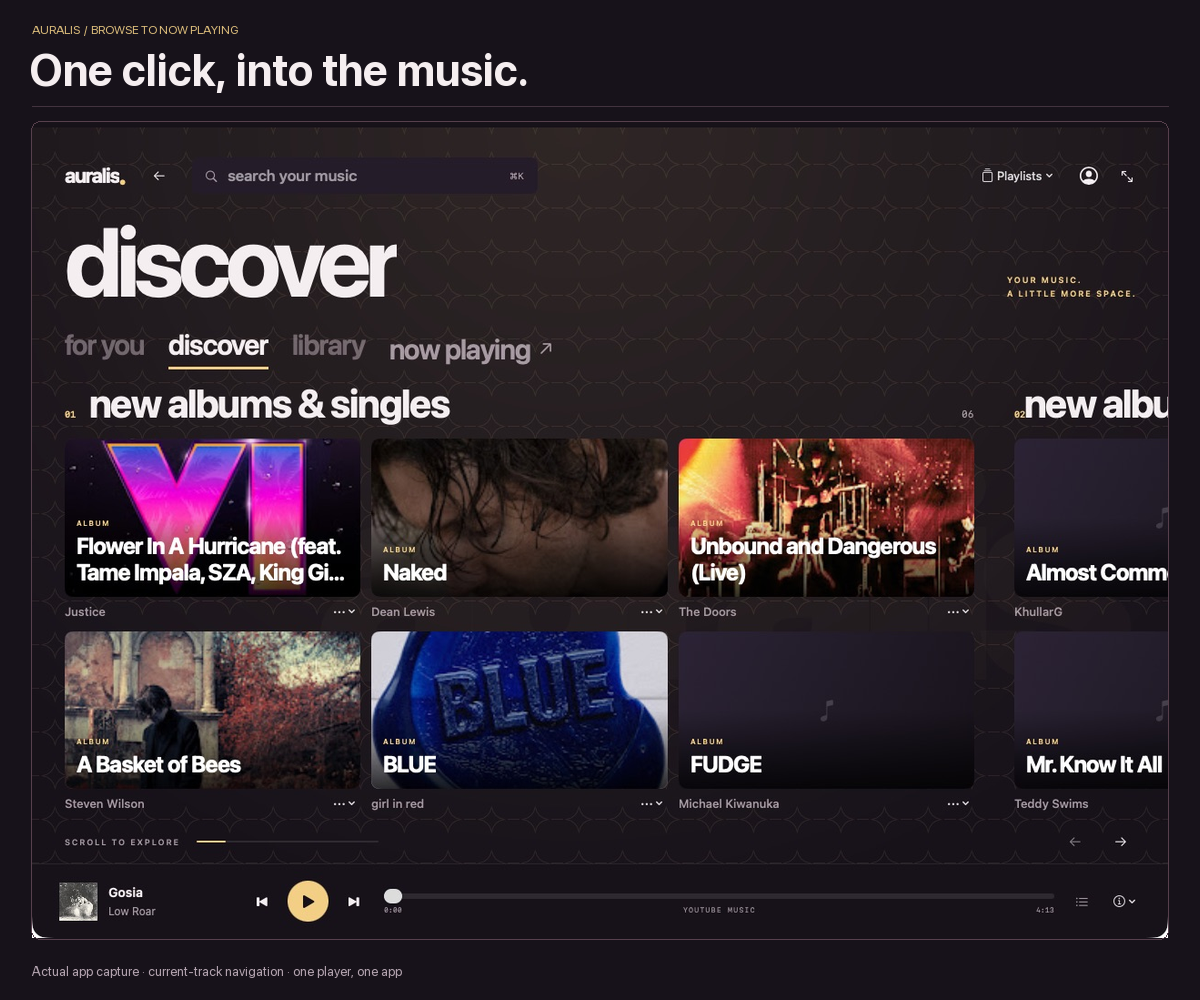
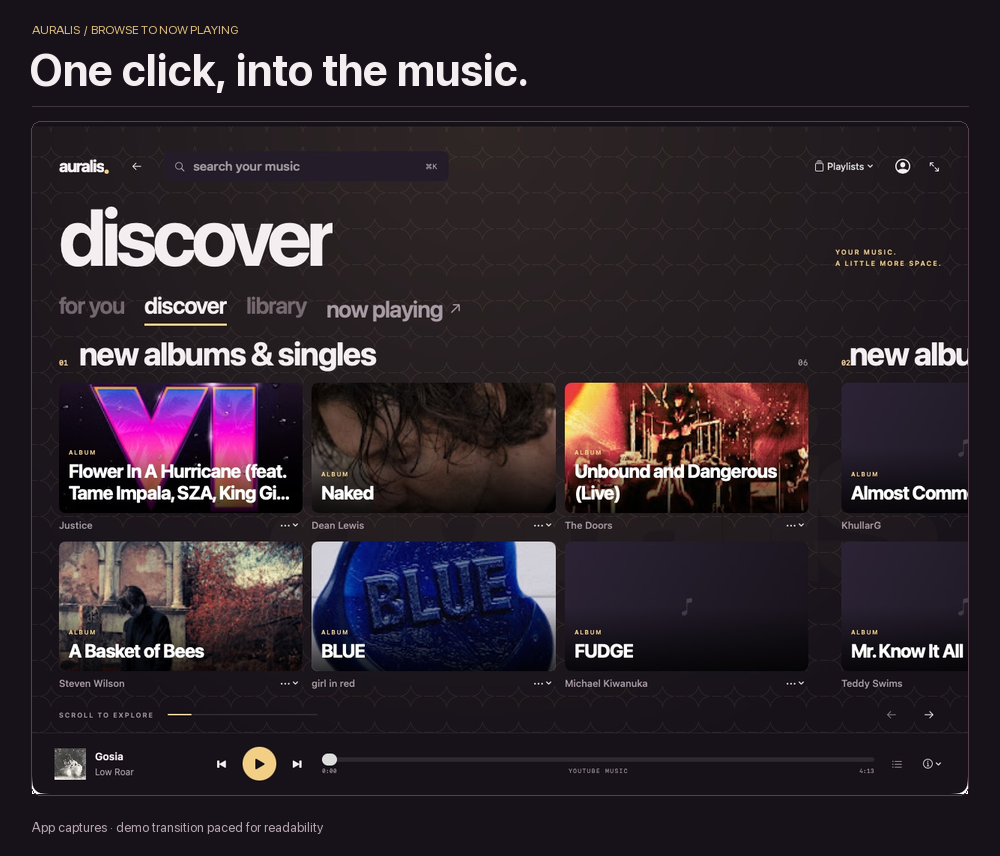
Fix navigation demo pacing and scroll-transition SDK compatibility

diff --git a/Auralis/Views/BrowseView.swift b/Auralis/Views/BrowseView.swift
@@ -12,11 +12,12 @@ struct BrowseArtwork: View {
     var body: some View {
         let reduceMotion = reduceMotion
         GeometryReader { geo in
+            let verticalParallax = min(12, geo.size.height * 0.06)
             ZStack {
                 LinearGradient(colors: [Color(red: 0.17, green: 0.14, blue: 0.21), .ink], startPoint: .topLeading, endPoint: .bottomTrailing)
                 if let image = (imageAddress == address ? image : nil) ?? seed ?? BrowseArtworkCache.shared.cached(address) { Image(nsImage: image).resizable().scaledToFill().frame(width: geo.size.width, height: geo.size.height)
                     .scaleEffect(reduceMotion ? 1 : 1.16)
-                    .scrollTransition(.interactive, axis: .vertical) { effect, phase in effect.offset(y: reduceMotion ? 0 : phase.value * -min(12, geo.size.height * 0.06)) }
+                    .scrollTransition(.interactive, axis: .vertical) { effect, phase in effect.offset(y: reduceMotion ? 0 : phase.value * -verticalParallax) }
                     .modifier(PanoramaArtworkOffset())
                     .clipped() }
                 else { VStack(spacing: 10) { Image(systemName: "music.note").font(.system(size: 26, weight: .ultraLight)); if address != nil && !resolved { ProgressView().controlSize(.mini).tint(.white.opacity(0.3)) } }.foregroundStyle(.white.opacity(0.16)) }

diff --git a/README.md b/README.md
@@ -26,9 +26,9 @@ Big artwork. Bold typography. A little space for the music to breathe. Auralis b
 - **Words with a source.** Optional rendered YouTube Music lyrics or attributed Wikipedia artist context; unavailable sources fall back to track typography.
 - **Quiet when it should be.** Decorative movement respects Reduce Motion, Low Power Mode and app inactivity. Listening-room motion also follows playback state.
 
-![Clicking the current track opens the native Now Playing screen without interrupting playback](docs/media/navigation.gif)
+![Clicking the current track opens the native Now Playing screen without interrupting playback](docs/media/navigation-demo.gif)
 
-The GIFs are silent captures of the running app, resized, trimmed and looped with presentation captions. They are not frame-rate benchmarks. Artwork belongs to its respective owners. [Static immersive preview](docs/media/immersive-poster.png) · [Static Browse preview](docs/media/navigation-poster.png)
+The GIFs are silent captures of the running app, resized, trimmed and looped with presentation captions. The navigation demo holds both screens and uses an edited dissolve for readability. They are not frame-rate benchmarks. Artwork belongs to its respective owners. [Static immersive preview](docs/media/immersive-poster.png) · [Static Browse preview](docs/media/navigation-poster.png)
 
 ## Build and run
 
